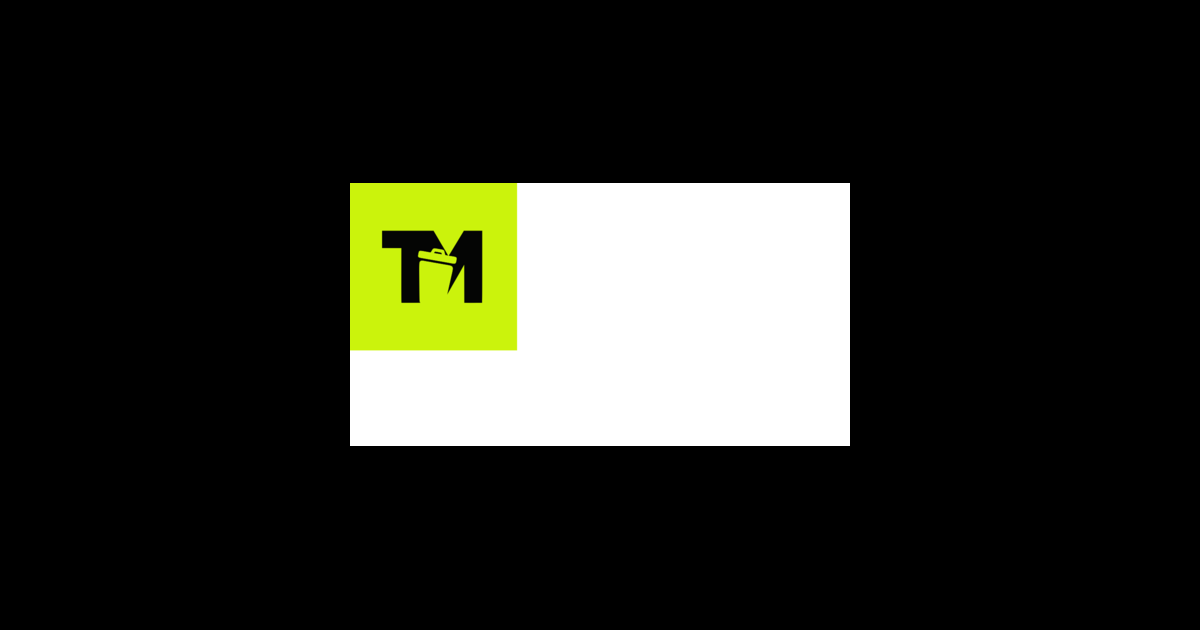
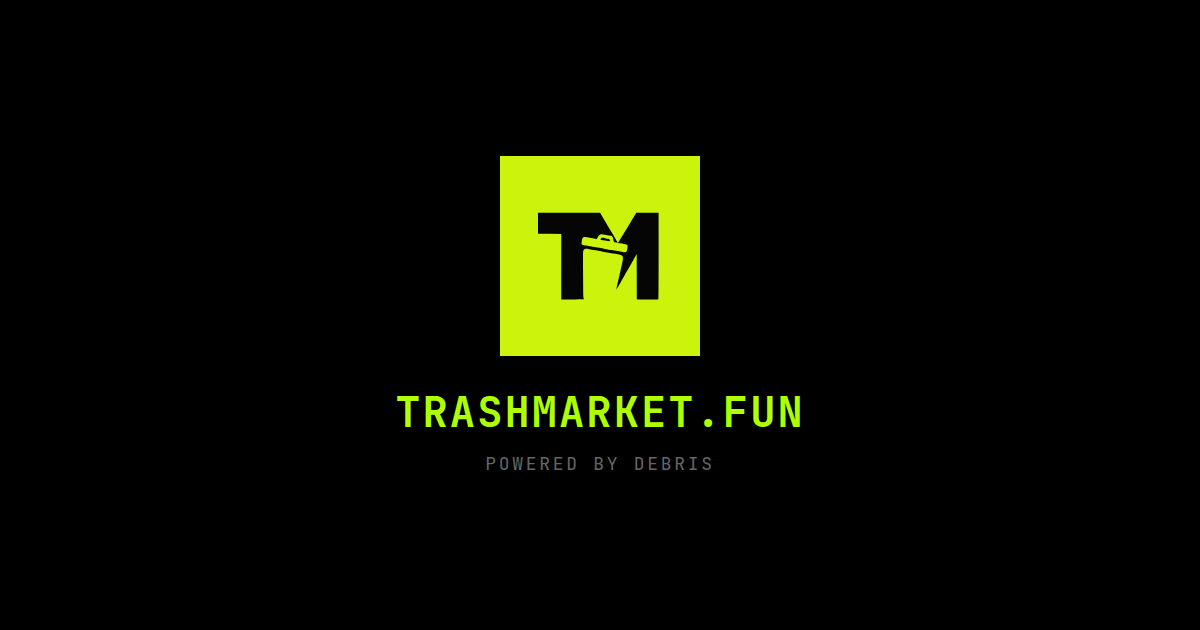
Add proper OG image and meta tags for social sharing
Chrome-rendered 1200x630 OG image with centered logo, og:image:width/height meta tags added.

Changed region(s): [[0.2775, 0.2413, 0.7092, 0.754]]

diff --git a/public/og-gen.html b/public/og-gen.html
@@ -1,0 +1,45 @@
+<!DOCTYPE html>
+<html>
+<head>
+<style>
+* { margin: 0; padding: 0; }
+body {
+  width: 1200px;
+  height: 630px;
+  background: #000000;
+  display: flex;
+  flex-direction: column;
+  justify-content: center;
+  align-items: center;
+  font-family: 'JetBrains Mono', monospace;
+  overflow: hidden;
+}
+img {
+  width: 200px;
+  height: 200px;
+}
+.title {
+  color: #adff02;
+  font-size: 42px;
+  font-weight: 700;
+  letter-spacing: 0.05em;
+  margin-top: 28px;
+  text-transform: uppercase;
+}
+.subtitle {
+  color: #666666;
+  font-size: 18px;
+  font-weight: 400;
+  letter-spacing: 0.15em;
+  margin-top: 12px;
+  text-transform: uppercase;
+}
+</style>
+<link href="https://fonts.googleapis.com/css2?family=JetBrains+Mono:wght@400;700&display=swap" rel="stylesheet">
+</head>
+<body>
+<img src="logo.svg" />
+<div class="title">Trashmarket.fun</div>
+<div class="subtitle">Powered by Debris</div>
+</body>
+</html>

diff --git a/index.html b/index.html
@@ -27,6 +27,8 @@
   <meta property="og:title" content="TrashMarket.fun | Powered by Debris">
   <meta property="og:description" content="The official trashmarket.fun marketplace on Gorbagana.">
   <meta property="og:image" content="https://trashmarket.fun/og-image.png">
+  <meta property="og:image:width" content="1200">
+  <meta property="og:image:height" content="630">
   <meta property="og:type" content="website">
   <meta property="og:url" content="https://trashmarket.fun">
   <meta name="twitter:card" content="summary_large_image">
